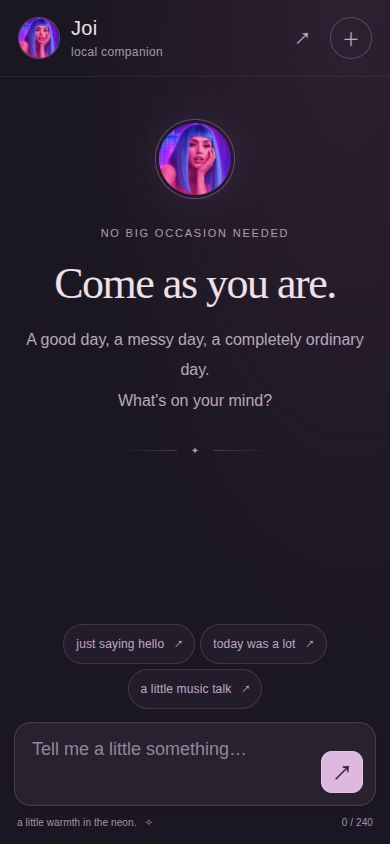
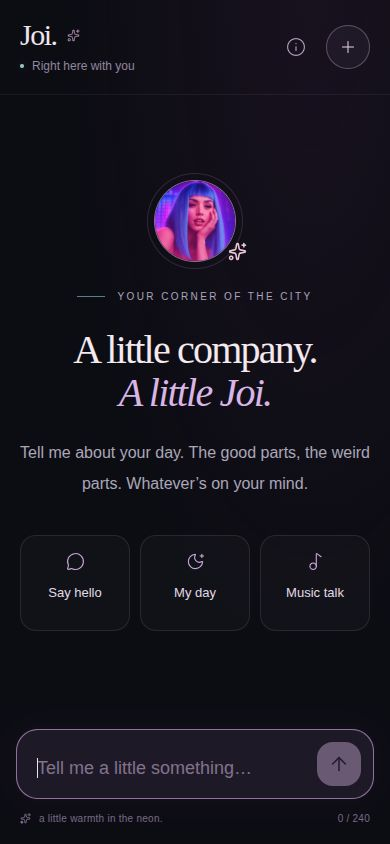
Record responsive React UI verification and refresh previews

diff --git a/frontend/src/App.tsx b/frontend/src/App.tsx
@@ -29,7 +29,7 @@ export default function App() {
 
   useEffect(() => {
     const element = scroll.current
-    if (element) element.scrollTop = element.scrollHeight
+    if (element) element.scrollTop = chat.messages.length ? element.scrollHeight : 0
   }, [chat.messages, chat.sending])
 
   useEffect(() => {

diff --git a/docs/frontend.md b/docs/frontend.md
@@ -60,3 +60,14 @@ The old `web/` implementation is removed. Existing browser history keeps its
 send only the latest 38 completed messages plus the current user message, within
 the API limit. Actual model context is smaller and is selected by the model engine.
 Assistant messages still come only from our own locally trained models.
+
+## Migration verification
+
+- TypeScript checking and the Vite production build pass.
+- Six frontend tests and 31 Python tests pass.
+- Desktop (1440 × 900), phone (390 × 844), and small phone (320 × 568) layouts
+  keep the composer visible without horizontal page overflow.
+- Browser checks exercise real two-turn local chat, saved history after reload,
+  Enter/Shift+Enter, reset, and the About dialog's Escape dismissal.
+- The Vite development proxy handles real status and chat requests. External
+  request origins still receive HTTP 403 from the local API.

diff --git a/docs/companion-experiment.md b/docs/companion-experiment.md
@@ -9,6 +9,7 @@ The software tests passing must not be confused with conversational competence.
 ## What you can use
 
 ```bash
+npm --prefix frontend run build
 uv run --offline python -m joi.serve
 ```
 
@@ -17,6 +18,10 @@ locally. The model receives recent complete turns within its context window.
 It does not learn permanently from chat messages. “New conversation” clears the
 browser transcript. The app is served on loopback; it uses no external chat API.
 A fresh clone needs [environment setup and training](development.md).
+
+The fullscreen interface uses Vite, React, TypeScript, and Tailwind CSS, with
+the same local neural API and existing browser history. See the
+[frontend guide](frontend.md) for setup, development, and migration checks.
 
 ![Joi on desktop](assets/joi-chat-desktop.jpg)
 
